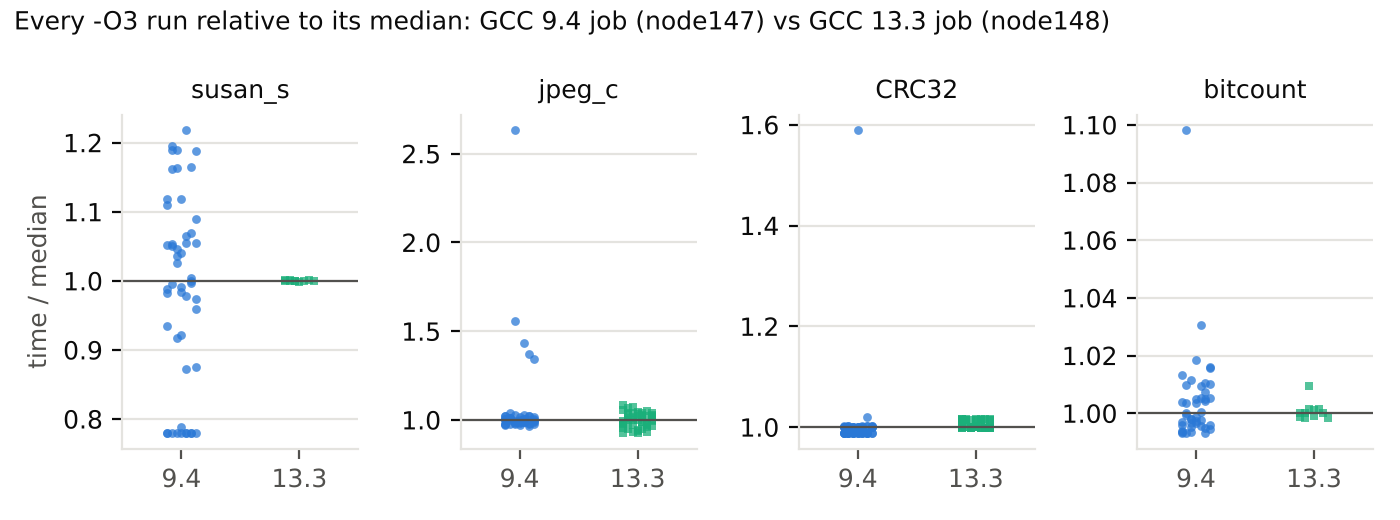
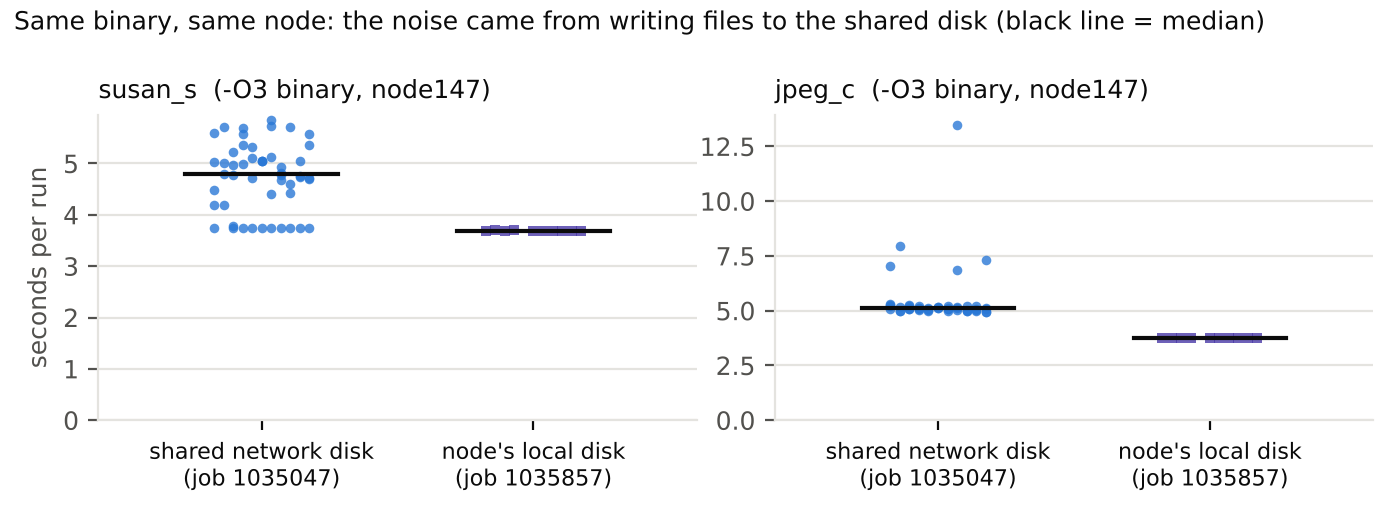
Add files via upload

diff --git a/README.md b/README.md
@@ -38,34 +38,37 @@ Brackets: bootstrap 95% confidence interval.
 | telecom_gsm | 1.279 | 1.092 | **1.092** [1.084, 1.096] | 0.994 [0.988, 0.997] |
 | network_patricia | 1.089 | 1.048 | **1.057** [1.050, 1.069] | **1.019** [1.012, 1.030] |
 | network_dijkstra | 1.142 | 0.764 | **1.053** [1.045, 1.057] | **1.070** [1.063, 1.074] |
-| automotive_susan_s | 1.269 | 0.977 | 1.022 [0.950, 1.091] | **1.086** [1.086, 1.087] |
-| consumer_jpeg_c | 1.339 | 1.007 | 1.007 [0.994, 1.020] | 0.945 [0.926, 0.970] |
+| automotive_susan_s † | 1.269 | 1.044 | **1.044** [1.044, 1.045] | **1.086** [1.086, 1.087] |
+| consumer_jpeg_c † | 1.339 | 1.012 | **1.012** [1.008, 1.014] | 0.945 [0.926, 0.970] |
 | security_blowfish_e | 1.023 | 0.989 | 0.989 [0.988, 0.997] | 0.996 [0.992, 1.000] |
 | security_blowfish_d | 1.070* | 0.987 | 0.987 [0.987, 0.994] | 0.998 [0.997, 0.998] |
 | security_sha | 1.563 | 0.963 | 0.971 [0.965, 0.974] | 0.904 [0.901, 0.909] |
-| **Mean** (keeping `-O3` when nothing beats it) | **1.243** | | **1.105** (geo 1.093) | **1.054** (geo 1.049) |
+| **Mean** (keeping `-O3` when nothing beats it) | **1.243** | 1.072 | **1.108** (geo 1.096) | **1.054** (geo 1.049) |
 
 **Bold:** significantly faster than `-O3` (the whole interval is above 1).
 \*For blowfish_d, the code optimizes `bf_enc.c`, but the authors' spreadsheet lists `bf_cfb64.c`.
+† Re-measured with the benchmark files on the node's local disk (job 1035857); see *Measurement notes*.
 Full table: [results/final_comparison.csv](results/final_comparison.csv). Every single run: `results/cluster_*/*_raw.csv`.
 
 **What we found**
 
-- **GCC 9.4:** the average gain over `-O3` is about **10%, against 24% in the paper**. Only **5 of 10 programs** are significantly faster;
-  for sha and both blowfish programs all three predictions are slower than `-O3`, and for susan_s and jpeg_c there is no significant difference
+- **GCC 9.4:** the average gain over `-O3` is about **11%, against 24% in the paper**. 7 of 10 programs are significantly faster,
+  but for sha and both blowfish programs all three predictions are slower than `-O3`, and susan_s and jpeg_c gain only 4% and 1%
   (the paper reports +27% and +34%). Without CRC32 the average gain is 5%.
 - **The result depends a lot on the machine.** CRC32 gives 1.60× on the cluster but 1.05× on the laptop with the same compiler and flags,
   because `-O3`'s own binary is much slower on this AMD CPU. Dijkstra goes the other way (1.30× laptop, 1.05× cluster).
-- **The Top-1 prediction alone is weaker** (mean 1.065): for dijkstra it is 24% *slower* than `-O3`, and only the third sequence helps.
-  The paper's metric needs all three candidates to be compiled and timed.
+- **The Top-1 prediction alone is weaker** (mean 1.072, against 1.242 in the authors' own spreadsheet): for dijkstra it is 24% *slower* than `-O3`,
+  and only the third sequence helps. The paper's metric needs all three candidates to be compiled and timed.
 - **The Top-3 is often fewer than 3 different programs:** for CRC32 all three sequences give the same binary, for bitcount and blowfish two do.
 - **With GCC 13.3** (same sequences, no retraining) the mean drops to 1.054 and the Top-1 alone is slower than `-O3` on average (0.979).
   The gain mostly disappears, except for bitcount, susan_s and dijkstra.
 - No predicted sequence produced the same binary as `-O3`.
 
 **Measurement notes.** The CPU frequency (governor, turbo) cannot be controlled on the cluster; we used a whole node, pinning,
-warm-ups, interleaving and many runs instead. In the GCC 9.4 job, susan_s and jpeg_c were unusually noisy (below), which is why their
-intervals are wide; those two are being re-measured with the benchmark files on the node's local disk.
+warm-ups, interleaving and many runs instead. In the first GCC 9.4 job, susan_s and jpeg_c were very noisy and slow: both write large
+output files, and the benchmarks were on the cluster's shared network disk. Re-measured on the **same node with the same binaries**
+but with the files on the node's local disk (job 1035857), the noise disappears (below) and their runs are 1.0–1.7 s faster.
+The table uses the re-measured values for these two; the job script now always uses the local disk.
 
 ![Noise](results/figures/fig_noise.png)
 
@@ -136,6 +139,6 @@ scripts/measure.py          rigorous timing (warm-ups, interleaving, CIs, binary
 scripts/cluster_measure.sh  SLURM job for the cluster
 docs/ISSUES.md              the 18 reproducibility issues
 results/final_comparison.csv  paper vs laptop vs cluster (GCC 9.4 and 13.3)
-results/cluster_*/          every measurement of the two cluster jobs
+results/cluster_*/          every measurement of the three cluster jobs
 results/figures/            the figures above
 ```
